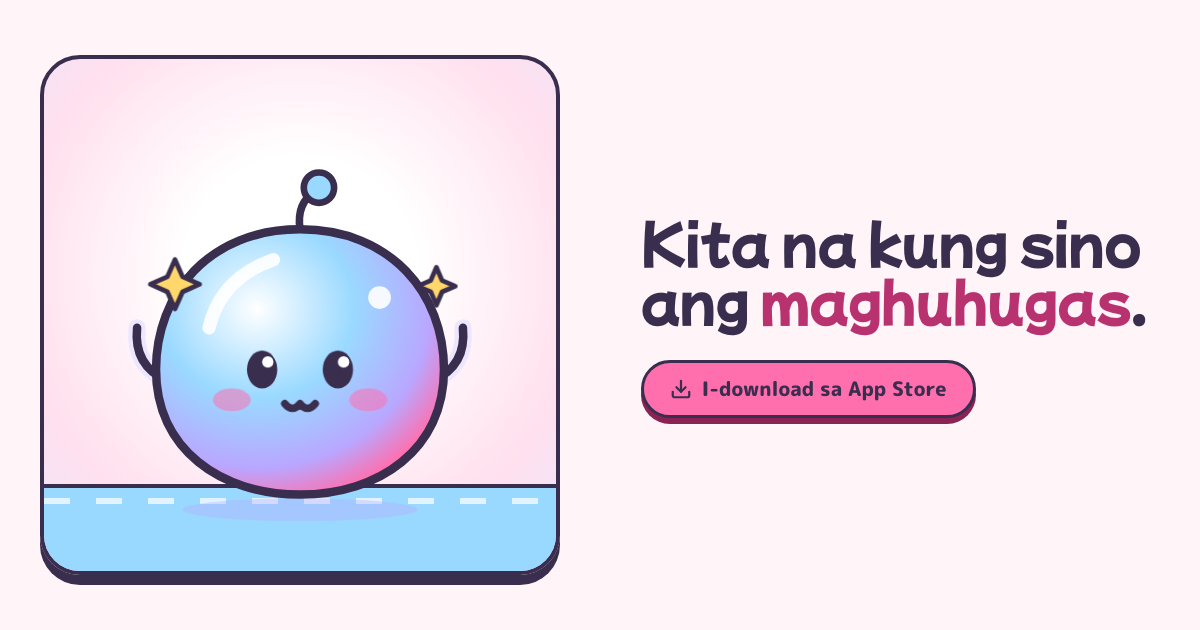
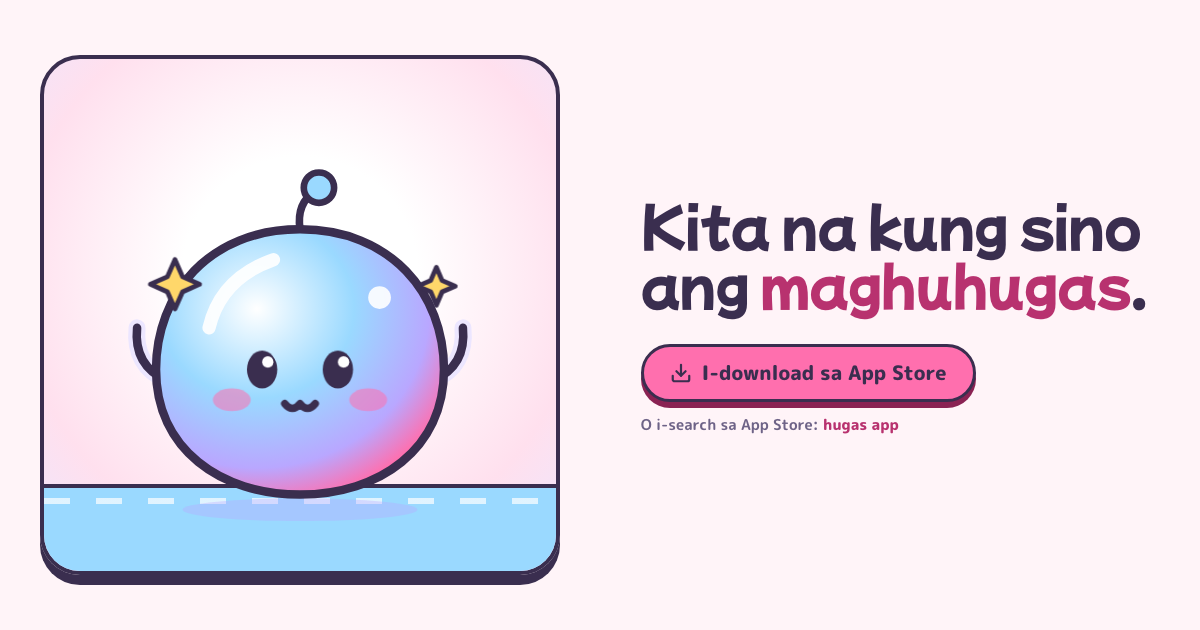
apps/hugas: Hugas landing page update

Changed region(s): [[0.5242, 0.3016, 0.9558, 0.6937]]

diff --git a/apps/hugas/index.html b/apps/hugas/index.html
@@ -133,6 +133,9 @@ button { font: inherit; color: inherit; }
 .btn.mint:active { box-shadow: 0 0 0 var(--mint-lip); }
 .btn.ghost { background: var(--surface); box-shadow: 0 6px 0 var(--ink); }
 .btn.ghost:active { box-shadow: 0 0 0 var(--ink); }
+.store-hint { margin: var(--space-3) 0 0; font: 700 var(--text-sm)/1.4 var(--font-body); color: var(--fg-2); }
+.store-hint b { color: var(--pink-deep); }
+.end .store-hint { text-align: center; }
 .toast { position: fixed; left: 50%; bottom: 24px; z-index: 50; translate: -50% 20px; padding: 12px 20px; border-radius: var(--radius-pill); background: var(--ink); color: var(--white); font: 800 var(--text-sm)/1.2 var(--font-body); opacity: 0; transition: opacity var(--motion-base), translate var(--motion-base) var(--ease-standard); pointer-events: none; }
 .toast.on { opacity: 1; translate: -50% 0; }
 
@@ -320,6 +323,7 @@ footer a { font-weight: 800; }
         <div class="cta-row">
           <a class="btn" data-store><svg viewBox="0 0 24 24" aria-hidden="true"><path d="M12 15V3"/><path d="M21 15v4a2 2 0 0 1-2 2H5a2 2 0 0 1-2-2v-4"/><path d="m7 10 5 5 5-5"/></svg><span data-t="cta_get"></span></a>
         </div>
+        <p class="store-hint" data-t="search_hint"></p>
       </div>
     </section>
   </main>
@@ -394,6 +398,7 @@ footer a { font-weight: 800; }
       <a class="btn" data-store><svg viewBox="0 0 24 24" aria-hidden="true"><path d="M12 15V3"/><path d="M21 15v4a2 2 0 0 1-2 2H5a2 2 0 0 1-2-2v-4"/><path d="m7 10 5 5 5-5"/></svg><span data-t="cta_get"></span></a>
       <button class="btn ghost" type="button" data-share><svg viewBox="0 0 24 24" aria-hidden="true"><circle cx="18" cy="5" r="3"/><circle cx="6" cy="12" r="3"/><circle cx="18" cy="19" r="3"/><line x1="8.59" x2="15.42" y1="13.51" y2="17.49"/><line x1="15.41" x2="8.59" y1="6.51" y2="10.49"/></svg><span data-t="cta_share"></span></button>
     </div>
+    <p class="store-hint" data-t="search_hint"></p>
   </div>
 </section>
 
@@ -415,6 +420,7 @@ const SETTINGS = {
   "bubu_label": "Si Bubu! Tap mo para kilitiin.",
   "h1": "Kita na kung sino ang <em>maghuhugas</em>.",
   "cta_get": "I-download sa App Store",
+  "search_hint": "O i-search sa App Store: <b>hugas app</b>",
   "cta_share": "Share sa family GC",
   "copied": "Link copied! Paste mo na sa GC.",
   "count": "{n} beses mo nang nakiliti si Bubu!",
@@ -518,7 +524,7 @@ function store(k, v) { try { if (v === undefined) return localStorage.getItem(k)
 document.querySelectorAll('[data-t]').forEach(el => {
   const v = SETTINGS[el.dataset.t];
   if (v == null) return;
-  if (el.dataset.t === 'h1') el.innerHTML = v; else el.textContent = v;
+  if (el.dataset.t === 'h1' || el.dataset.t === 'search_hint') el.innerHTML = v; else el.textContent = v;
 });
 document.querySelectorAll('[data-store]').forEach(el => { el.href = SETTINGS.appstore_url; el.target = '_blank'; el.rel = 'noopener'; });
 document.querySelectorAll('[data-label]').forEach(el => el.setAttribute('aria-label', SETTINGS[el.dataset.label] || el.dataset.label));
